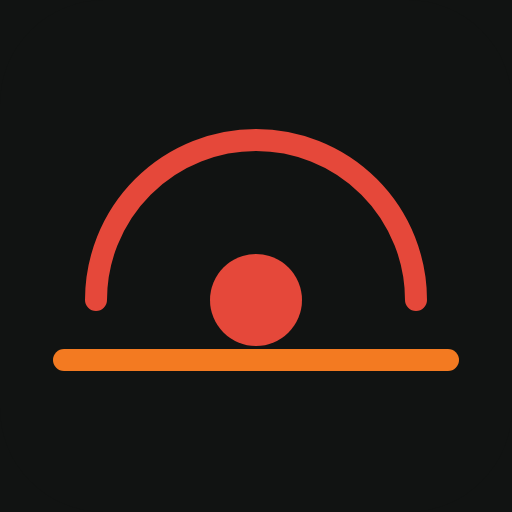
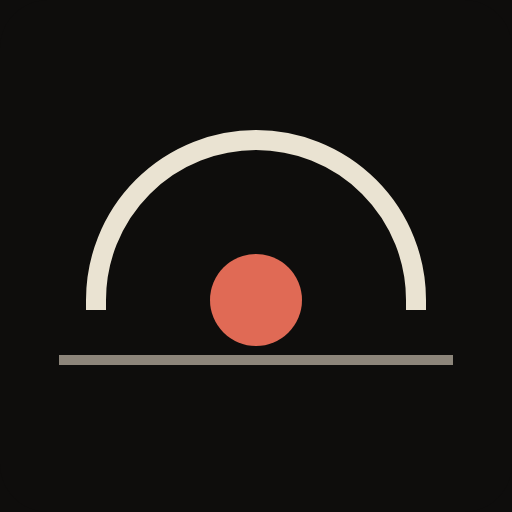
Flat editorial palette (paper, ink, brick red, brass), serif numbers, no glow or shadows
Claude-Session: https://claude.ai/code/session_013VMwR7LvqghpFT8Sn46fYv

Changed region(s): [[0.0938, 0.5, 0.9062, 0.75], [0.1562, 0.25, 0.8438, 0.625]]

diff --git a/style.css b/style.css
@@ -1,60 +1,59 @@
-:root{--bg:#111312;--bg2:#1B1E1D;--card:#181B1A;--card2:#1E2221;--line:#2D3231;--text:#F2F3F2;--dim:#98A09C;--accent:#E5483A;--accent-soft:rgba(229,72,58,.14);--blue:#F37A21;--ok:#5FD3A4;--bad:#F2796B;--shadow:0 8px 28px rgba(0,0,0,.35);--radius:16px}
-:root[data-theme=light]{--bg:#F3F2EF;--bg2:#E9E7E1;--card:#FFFFFF;--card2:#FBFAF8;--line:#E0DDD5;--text:#111312;--dim:#5E6663;--accent:#C42D20;--accent-soft:rgba(196,45,32,.1);--blue:#D8650F;--ok:#1F8F68;--bad:#C4493B;--shadow:0 6px 20px rgba(17,19,18,.08)}
+:root{--bg:#0E0D0C;--bg2:#0E0D0C;--card:#1C1A17;--card2:#1C1A17;--line:#3A3631;--line2:#262320;--text:#EAE3D2;--dim:#8C857A;--accent:#E06A55;--accent-soft:rgba(224,106,85,.12);--blue:#3987E5;--ok:#6FB38F;--warn:#D9A441;--bad:#E06A55;--shadow:none;--radius:6px;--serif:"Iowan Old Style","Palatino Linotype",Palatino,Georgia,serif}
+:root[data-theme=light]{--bg:#EAE3D2;--bg2:#EAE3D2;--card:#F3EEE2;--card2:#F3EEE2;--line:#C9C0AD;--line2:#DBD3C2;--text:#16130F;--dim:#5D574E;--accent:#8E2A1F;--accent-soft:rgba(142,42,31,.1);--blue:#2A78D6;--ok:#2F6B4F;--warn:#8A5F10;--bad:#8E2A1F;--shadow:none}
 *{box-sizing:border-box}html{-webkit-text-size-adjust:100%;scroll-behavior:smooth}
-body{margin:0;background:var(--bg);background-image:radial-gradient(1200px 500px at 50% -120px,var(--bg2),transparent);color:var(--text);font:15px/1.5 system-ui,-apple-system,"Segoe UI",Roboto,Helvetica,Arial,sans-serif;min-height:100vh;padding:env(safe-area-inset-top) env(safe-area-inset-right) env(safe-area-inset-bottom) env(safe-area-inset-left)}
+body{margin:0;background:var(--bg);color:var(--text);font:15px/1.5 system-ui,-apple-system,"Segoe UI",Roboto,Helvetica,Arial,sans-serif;min-height:100vh;padding:env(safe-area-inset-top) env(safe-area-inset-right) env(safe-area-inset-bottom) env(safe-area-inset-left)}
 .skip{position:absolute;left:-999px}.skip:focus{left:8px;top:8px;background:var(--accent);color:var(--bg);padding:6px 10px;z-index:99;border-radius:6px}
 a{color:var(--accent);text-underline-offset:3px}
-button{font:inherit;color:inherit;background:var(--card);border:1px solid var(--line);border-radius:10px;padding:7px 12px;cursor:pointer;transition:border-color .2s,background .2s}
+button{font:inherit;color:inherit;background:var(--card);border:1px solid var(--line);border-radius:4px;padding:7px 12px;cursor:pointer;transition:border-color .2s,background .2s}
 button:hover{border-color:var(--accent)}button:focus-visible,a:focus-visible,input:focus-visible,select:focus-visible{outline:2px solid var(--accent);outline-offset:2px}
-.bar{position:sticky;top:0;z-index:5;display:flex;flex-wrap:wrap;align-items:center;gap:6px 18px;padding:10px 20px;background:color-mix(in srgb,var(--bg) 86%,transparent);backdrop-filter:blur(10px);border-bottom:1px solid var(--line)}
+.bar{position:sticky;top:0;z-index:5;display:flex;flex-wrap:wrap;align-items:center;gap:6px 18px;padding:10px 20px;background:var(--bg);border-bottom:1px solid var(--line)}
 .brand{display:flex;align-items:center;gap:9px;text-decoration:none;color:var(--text);font:700 14px system-ui,sans-serif;letter-spacing:.22em}.brand svg{color:var(--accent)}
-nav{display:flex;flex-wrap:wrap;gap:2px;flex:1}nav a{color:var(--dim);text-decoration:none;padding:6px 11px;border-radius:999px;font-size:13.5px;transition:color .2s,background .2s}
+nav{display:flex;flex-wrap:wrap;gap:2px;flex:1}nav a{color:var(--dim);text-decoration:none;padding:6px 11px;border-radius:2px;font-size:13.5px;transition:color .2s,background .2s}
 nav a:hover{color:var(--text)}nav a[aria-current=page]{color:var(--accent);background:var(--accent-soft)}
 .tools{display:flex;gap:8px;align-items:center}.conn{width:8px;height:8px;border-radius:50%;background:var(--bad)}.conn.on{background:var(--ok)}.conn.poll{background:var(--accent)}
 main{max-width:1180px;margin:0 auto;padding:22px 20px 8px;outline:0}
 .foot{text-align:center;color:var(--dim);font-size:12.5px;padding:22px 16px 34px}
 .mono,.num{font-family:ui-monospace,SFMono-Regular,Menlo,Consolas,monospace;font-variant-numeric:tabular-nums}
 .eyebrow{font-size:11.5px;letter-spacing:.2em;text-transform:uppercase;color:var(--dim);font-weight:600}
-.card,.panel{background:linear-gradient(180deg,var(--card2),var(--card));border:1px solid var(--line);border-radius:var(--radius);box-shadow:var(--shadow);min-width:0}
+.card,.panel{background:var(--card);border:1px solid var(--line);border-radius:var(--radius);min-width:0}
 .hero{padding:28px 24px 20px;text-align:center;position:relative;overflow:hidden}
-.hero::before{content:"";position:absolute;inset:0;background:radial-gradient(600px 220px at 50% 0,var(--accent-soft),transparent);pointer-events:none}
-.height{position:relative;font:700 clamp(46px,12.5vw,112px)/1.02 ui-monospace,SFMono-Regular,Menlo,Consolas,monospace;letter-spacing:-.03em;margin:8px 0 4px;color:var(--accent);font-variant-numeric:tabular-nums}
+.height{position:relative;font:600 clamp(46px,12.5vw,112px)/1.02 var(--serif);letter-spacing:-.02em;margin:8px 0 4px;color:var(--accent);font-variant-numeric:tabular-nums}
 .since{position:relative;color:var(--dim)}.since b{color:var(--text);font-weight:600}
 .strip{position:relative;display:grid;grid-template-columns:repeat(auto-fit,minmax(130px,1fr));gap:10px;margin-top:22px;text-align:left}
-.chip{background:color-mix(in srgb,var(--bg) 55%,transparent);border:1px solid var(--line);border-radius:12px;padding:10px 12px}
-.chip small{display:block;font-size:11px;letter-spacing:.14em;text-transform:uppercase;color:var(--dim)}.chip b{font:600 19px ui-monospace,Menlo,monospace;font-variant-numeric:tabular-nums}
+.chip{background:var(--bg);border:1px solid var(--line);border-radius:4px;padding:10px 12px}
+.chip small{display:block;font-size:11px;letter-spacing:.14em;text-transform:uppercase;color:var(--dim)}.chip b{font:600 19px var(--serif);font-variant-numeric:tabular-nums}
 .hbar{position:relative;margin-top:20px;text-align:left}.hbar .lab{display:flex;justify-content:space-between;font-size:12.5px;color:var(--dim);margin-bottom:6px}
-.track{height:8px;background:var(--line);border-radius:999px;overflow:hidden}.fill{height:100%;background:linear-gradient(90deg,var(--blue),var(--accent));border-radius:999px;transition:width .8s ease}
+.track{height:8px;background:var(--line);border-radius:2px;overflow:hidden}.fill{height:100%;background:var(--accent);border-radius:2px;transition:width .8s ease}
 .grid{display:grid;grid-template-columns:repeat(auto-fit,minmax(min(100%,310px),1fr));gap:14px;margin-top:14px}
-.panel{padding:18px;position:relative}
+.panel{padding:18px;position:relative;border-top:2px solid var(--text)}
 .panel h2{margin:0 0 10px;font-size:11.5px;letter-spacing:.2em;text-transform:uppercase;color:var(--dim);font-weight:600}
-.big{font:700 29px/1.15 ui-monospace,Menlo,monospace;color:var(--text);font-variant-numeric:tabular-nums;overflow-wrap:anywhere}a.big{color:var(--accent);text-decoration:none}
+.big{font:600 30px/1.15 var(--serif);color:var(--text);font-variant-numeric:tabular-nums;overflow-wrap:anywhere}a.big{color:var(--accent);text-decoration:none}
 .big small{font-size:14px;color:var(--dim);font-weight:500}
 .kv{display:grid;grid-template-columns:1fr auto;gap:6px 14px;margin:12px 0 0;font-size:14px}.kv dt{color:var(--dim)}.kv dd{margin:0;text-align:right;font-variant-numeric:tabular-nums;overflow-wrap:anywhere}
-.bar-track{height:8px;background:var(--line);border-radius:999px;overflow:hidden;margin:12px 0 4px}.bar-fill{height:100%;background:linear-gradient(90deg,var(--blue),var(--accent));border-radius:999px;transition:width .8s ease}
-.arc{display:block;margin:2px auto 6px;max-width:220px;width:100%}.arc text{fill:var(--text);font:700 24px ui-monospace,monospace;text-anchor:middle}.arc .sub{font:500 10.5px system-ui;fill:var(--dim)}
+.bar-track{height:8px;background:var(--line);border-radius:2px;overflow:hidden;margin:12px 0 4px}.bar-fill{height:100%;background:var(--accent);border-radius:2px;transition:width .8s ease}
+.arc{display:block;margin:2px auto 6px;max-width:220px;width:100%}.arc text{fill:var(--text);font:600 26px var(--serif);text-anchor:middle}.arc .sub{font:500 10.5px system-ui;fill:var(--dim)}
 .arc .trk{stroke:var(--line);fill:none;stroke-width:11;stroke-linecap:round}.arc .val{stroke:var(--accent);fill:none;stroke-width:11;stroke-linecap:round;transition:stroke-dashoffset .8s ease}
 .spark{width:100%;height:64px;display:block;margin:8px 0 0}.spark path.l{fill:none;stroke:var(--accent);stroke-width:2;stroke-linejoin:round}.spark path.a{fill:url(#g);stroke:none}
-.fees{display:grid;grid-template-columns:repeat(4,1fr);gap:8px;text-align:center}.fees div{background:color-mix(in srgb,var(--bg) 50%,transparent);border:1px solid var(--line);border-radius:12px;padding:10px 4px}
-.fees b{display:block;font:700 21px ui-monospace,monospace;color:var(--accent)}.fees small{color:var(--dim);font-size:11.5px}.fees.rtl{direction:rtl}
+.fees{display:grid;grid-template-columns:repeat(4,1fr);gap:8px;text-align:center}.fees div{background:var(--bg);border:1px solid var(--line);border-radius:4px;padding:10px 4px}
+.fees b{display:block;font:600 22px var(--serif);color:var(--accent)}.fees small{color:var(--dim);font-size:11.5px}.fees.rtl{direction:rtl}
 .sec{margin:26px 0 8px;font-size:11.5px;letter-spacing:.2em;text-transform:uppercase;color:var(--dim);font-weight:600}
 .blocks{display:flex;gap:10px;overflow-x:auto;padding:4px 2px 12px;scroll-snap-type:x proximity}
-.blk{flex:0 0 118px;scroll-snap-align:start;border:1px solid var(--line);border-radius:14px;padding:10px;background:linear-gradient(180deg,var(--card2),var(--card));text-decoration:none;color:var(--text);font-size:12px;transition:border-color .2s,transform .2s}
-.blk:hover{border-color:var(--accent);transform:translateY(-2px)}.blk b{display:block;font:700 15px ui-monospace,monospace;color:var(--text);margin-top:8px}.blk span{color:var(--dim);display:block;white-space:nowrap;overflow:hidden;text-overflow:ellipsis}
+.blk{flex:0 0 118px;scroll-snap-align:start;border:1px solid var(--line);border-radius:6px;padding:10px;background:var(--card);text-decoration:none;color:var(--text);font-size:12px;transition:border-color .2s,transform .2s}
+.blk:hover{border-color:var(--accent);transform:translateY(-2px)}.blk b{display:block;font:600 16px var(--serif);color:var(--text);margin-top:8px}.blk span{color:var(--dim);display:block;white-space:nowrap;overflow:hidden;text-overflow:ellipsis}
 .blk.cur{border-color:var(--accent)}.blk.cur b{color:var(--accent)}.blk.proj{border-style:dashed}
-.cube{height:54px;border-radius:8px;background:var(--line);position:relative;overflow:hidden;display:flex;align-items:flex-end}.cube i{display:block;width:100%;background:linear-gradient(180deg,var(--accent),color-mix(in srgb,var(--accent) 55%,var(--bg)));border-radius:0 0 8px 8px}
-.blk.proj .cube i{background:linear-gradient(180deg,var(--blue),color-mix(in srgb,var(--blue) 55%,var(--bg)))}
+.cube{height:54px;border-radius:3px;background:var(--line);position:relative;overflow:hidden;display:flex;align-items:flex-end}.cube i{display:block;width:100%;background:var(--accent)}
+.blk.proj .cube i{background:var(--blue)}
 form.row,.row{display:flex;flex-wrap:wrap;gap:10px;align-items:center;margin:10px 0}
-input,select{font:inherit;background:var(--bg);color:var(--text);border:1px solid var(--line);border-radius:10px;padding:9px 11px;min-width:0;max-width:100%}
+input,select{font:inherit;background:var(--bg);color:var(--text);border:1px solid var(--line);border-radius:4px;padding:9px 11px;min-width:0;max-width:100%}
 .btn-go{background:var(--accent);color:#FFFFFF;border-color:var(--accent);font-weight:700}.btn-go:hover{filter:brightness(1.08)}
-h1{font:700 22px system-ui,sans-serif;letter-spacing:.14em;color:var(--text);margin:4px 0 14px}
+h1{font:600 26px var(--serif);letter-spacing:.02em;color:var(--text);margin:4px 0 14px}
 .dim{color:var(--dim)}.ok{color:var(--ok)}.bad{color:var(--bad)}
 .glossary dt{font-weight:700;color:var(--accent);margin-top:14px}.glossary dd{margin:3px 0 0}
-table{border-collapse:collapse;width:100%;font-size:14px}th,td{padding:9px 8px;border-bottom:1px solid var(--line);text-align:left}th{color:var(--dim);font-weight:600}
+table{border-collapse:collapse;width:100%;font-size:14px}th,td{padding:9px 8px;border-bottom:1px solid var(--line2);text-align:left}th{color:var(--dim);font-weight:600}
 .modal{position:fixed;inset:0;z-index:20;background:rgba(6,7,7,.7);display:flex;align-items:flex-start;justify-content:center;padding:7vh 12px;overflow:auto}.modal[hidden]{display:none}
-.sheet{position:relative;background:var(--card);border:1px solid var(--line);border-radius:18px;padding:22px;width:min(580px,100%);box-shadow:var(--shadow)}
+.sheet{position:relative;background:var(--card);border:1px solid var(--line);border-radius:8px;padding:22px;width:min(580px,100%);box-shadow:var(--shadow)}
 .x{position:absolute;right:10px;top:10px;border:0;background:transparent}
-.toast{position:fixed;left:50%;bottom:24px;transform:translateX(-50%);background:var(--accent);color:#FFFFFF;padding:11px 18px;border-radius:12px;font-weight:700;z-index:30;max-width:92vw}.toast[hidden]{display:none}
+.toast{box-shadow:none;position:fixed;left:50%;bottom:24px;transform:translateX(-50%);background:var(--accent);color:#FFFFFF;padding:11px 18px;border-radius:12px;font-weight:700;z-index:30;max-width:92vw}.toast[hidden]{display:none}
 label.chk{display:flex;gap:10px;align-items:center;margin:8px 0}
 .tabs{display:flex;gap:6px;margin-bottom:12px}.tabs button[aria-selected=true]{border-color:var(--accent);color:var(--accent);background:var(--accent-soft)}
 .reduced *,.reduced *::before{transition:none!important;scroll-behavior:auto!important}

diff --git a/index.html b/index.html
@@ -5,7 +5,7 @@
 <meta name="viewport" content="width=device-width, initial-scale=1, viewport-fit=cover">
 <title>BLOCKHORIZON</title>
 <meta name="description" content="Live Bitcoin dashboard where block height is the clock. No accounts, no tracking.">
-<meta name="theme-color" content="#111312">
+<meta name="theme-color" content="#0E0D0C">
 <meta http-equiv="Content-Security-Policy" content="default-src 'self'; script-src 'self'; style-src 'self'; style-src-attr 'unsafe-inline'; img-src 'self' data:; connect-src 'self' https://mempool.space wss://mempool.space; manifest-src 'self'; base-uri 'none'; form-action 'none'">
 <link rel="manifest" href="manifest.webmanifest">
 <link rel="icon" href="icons/icon.svg" type="image/svg+xml">

diff --git a/src/app.js b/src/app.js
@@ -27,7 +27,7 @@ function applyLook() {
   document.documentElement.dataset.theme = dark ? 'dark' : 'light';
   document.documentElement.lang = S.lang; setLang(S.lang);
   document.body.classList.toggle('reduced', S.reduced); document.body.classList.toggle('nopulse', !S.pulse);
-  const m = $('meta[name=theme-color]'); if (m) m.content = dark ? '#111312' : '#F3F2EF';
+  const m = $('meta[name=theme-color]'); if (m) m.content = dark ? '#0E0D0C' : '#EAE3D2';
 }
 const price = () => (st.prices && st.prices[S.cur]) || NaN;
 const NAVS = [['/', 'dash'], ['/alarm', 'alarm'], ['/calc', 'calc'], ['/replay', 'replay'], ['/events', 'events'], ['/glossary', 'glossary'], ['/about', 'about']];
